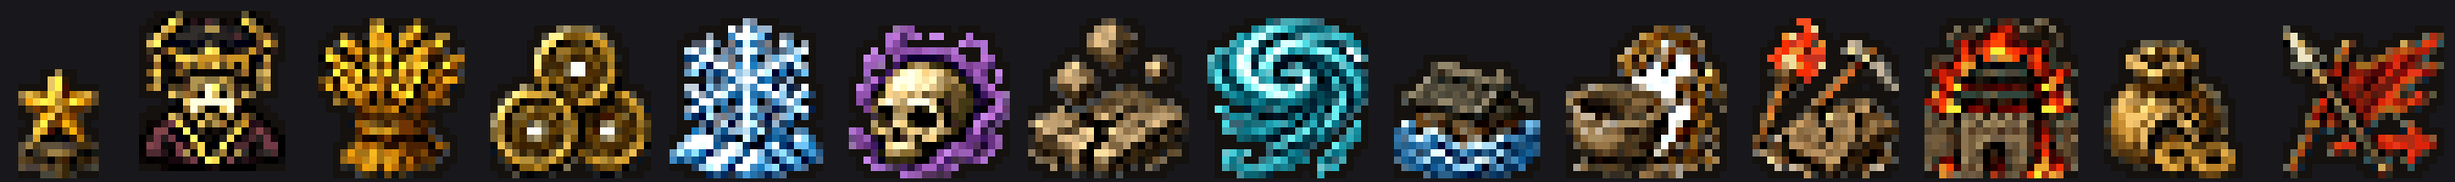
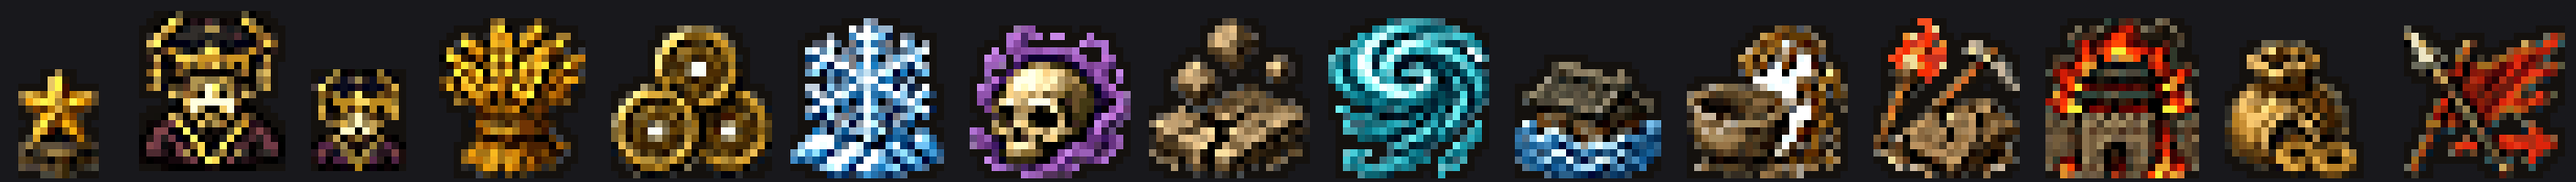
feat: add imperial NPC name badge

diff --git a/tools/assets/build_status_icons.py b/tools/assets/build_status_icons.py
@@ -2,7 +2,7 @@
 """도시 상태/수도별 아이콘 빌더 (ImageGen 원화 · 결정적 후처리).
 
 `web/{gateway,game}/public/status/state-<code>.png`(12장) + `star-capital.png`(1장) +
-`imperial-residence.png`(1장)과
+`imperial-residence.png`(1장) + `imperial-npc.png`(1장)과
 검수 시트 `assets/brand/status-icons/preview.png`를 생성한다. 정본 원화는
 `assets/status-icons/source/status-master-imagegen.png`이며, 각 셀의 배경 제거·분리·축소·
 팔레트 제한을 코드로 재현한다.
@@ -68,6 +68,7 @@ PREVIEW_GAP = 4
 
 SIZE = 24
 STAR_SIZE = 16
+IMPERIAL_NPC_SIZE = 16
 
 OUTLINE = (18, 16, 14, 255)
 
@@ -391,6 +392,23 @@ def build_imperial_residence(size: int = SIZE) -> Image.Image:
     return canvas
 
 
+def build_imperial_npc_badge(size: int = IMPERIAL_NPC_SIZE) -> Image.Image:
+    """인물명 앞에 붙이는 황제 특별 NPC 배지. 16px용 면류관 앞판을 별도 클린업한다."""
+    badge = build_imperial_residence(size)
+    unit = max(1, size // IMPERIAL_NPC_SIZE)
+    if size == IMPERIAL_NPC_SIZE * unit:
+        for logical_x in range(4, 12):
+            color = STAR_GOLD if logical_x in (7, 8) else STAR_GOLD_D
+            for y in range(5 * unit, 6 * unit):
+                for x in range(logical_x * unit, (logical_x + 1) * unit):
+                    badge.putpixel((x, y), color)
+        for logical_x in (5, 7, 9, 11):
+            for y in range(6 * unit, 7 * unit):
+                for x in range(logical_x * unit, (logical_x + 1) * unit):
+                    badge.putpixel((x, y), STAR_GOLD_D)
+    return badge
+
+
 def preview_sheet(icons: dict[str, Image.Image]) -> Image.Image:
     s, gap = PREVIEW_SCALE, PREVIEW_GAP
     w = sum(i.width * s for i in icons.values()) + gap * (len(icons) + 1)
@@ -398,7 +416,7 @@ def preview_sheet(icons: dict[str, Image.Image]) -> Image.Image:
     sheet = Image.new("RGBA", (w, h), (24, 24, 28, 255))
     x = gap
     # 게임 상태 코드의 실제 순서로 보여 줘 32/34/43이 3과 4 사이에 끼지 않게 한다.
-    for key in ["capital", "imperial", *(str(code) for code in STATE_BUILDERS)]:
+    for key in ["capital", "imperial", "imperialNpc", *(str(code) for code in STATE_BUILDERS)]:
         img = icons[key]
         img = img.resize((img.width * s, img.height * s), Image.NEAREST)
         sheet.alpha_composite(img, (x, h - gap - img.height))
@@ -420,6 +438,8 @@ def targets(icons: dict[str, Image.Image]) -> dict[Path, bytes]:
             name = "star-capital.png"
         elif key == "imperial":
             name = "imperial-residence.png"
+        elif key == "imperialNpc":
+            name = "imperial-npc.png"
         else:
             name = f"state-{key}.png"
         for app in APPS:
@@ -429,6 +449,8 @@ def targets(icons: dict[str, Image.Image]) -> dict[Path, bytes]:
                 doubled = build_capital_star(STAR_SIZE * 2)
             elif key == "imperial":
                 doubled = build_imperial_residence(SIZE * 2)
+            elif key == "imperialNpc":
+                doubled = build_imperial_npc_badge(IMPERIAL_NPC_SIZE * 2)
             else:
                 doubled = build_state(int(key), SIZE * 2)
             out[ROOT / "web" / app / "public" / "status" / "2x" / name] = png_bytes(doubled)
@@ -444,6 +466,7 @@ def main() -> int:
     icons: dict[str, Image.Image] = {str(code): build_state(code) for code in STATE_BUILDERS}
     icons["capital"] = build_capital_star()
     icons["imperial"] = build_imperial_residence()
+    icons["imperialNpc"] = build_imperial_npc_badge()
     files = targets(icons)
 
     if args.check:

diff --git a/tools/assets/test_build_status_icons.py b/tools/assets/test_build_status_icons.py
@@ -41,19 +41,40 @@ class StatusIconPipelineTest(unittest.TestCase):
         ]
         self.assertGreaterEqual(len(front_gold), 5)
 
+    def test_imperial_npc_badge_has_a_crisp_compact_crown_front(self) -> None:
+        badge = status_icons.build_imperial_npc_badge()
+
+        self.assertEqual((16, 16), badge.size)
+        self.assertLessEqual(set(badge.getchannel("A").tobytes()), {0, 255})
+        front_gold = [
+            badge.getpixel((x, 5))
+            for x in range(4, 12)
+            if (
+                badge.getpixel((x, 5))[3] == 255
+                and badge.getpixel((x, 5))[0] >= 150
+                and badge.getpixel((x, 5))[1] >= 100
+                and badge.getpixel((x, 5))[2] < 100
+            )
+        ]
+        self.assertGreaterEqual(len(front_gold), 4)
+
     def test_targets_export_all_states_capital_and_emperor_to_both_apps(self) -> None:
         icons = {str(code): status_icons.build_state(code) for code in status_icons.STATE_BUILDERS}
         icons["capital"] = status_icons.build_capital_star()
         icons["imperial"] = status_icons.build_imperial_residence()
+        icons["imperialNpc"] = status_icons.build_imperial_npc_badge()
         targets = {path.relative_to(status_icons.ROOT).as_posix() for path in status_icons.targets(icons)}
 
-        self.assertEqual(85, len(targets))
+        self.assertEqual(91, len(targets))
         for app in status_icons.APPS:
             self.assertIn(f"web/{app}/public/status/star-capital.png", targets)
             self.assertIn(f"web/{app}/public/status/2x/star-capital.png", targets)
             self.assertIn(f"web/{app}/public/status/imperial-residence.png", targets)
             self.assertIn(f"web/{app}/public/status/1x/imperial-residence.png", targets)
             self.assertIn(f"web/{app}/public/status/2x/imperial-residence.png", targets)
+            self.assertIn(f"web/{app}/public/status/imperial-npc.png", targets)
+            self.assertIn(f"web/{app}/public/status/1x/imperial-npc.png", targets)
+            self.assertIn(f"web/{app}/public/status/2x/imperial-npc.png", targets)
             for code in status_icons.STATE_BUILDERS:
                 self.assertIn(f"web/{app}/public/status/state-{code}.png", targets)
                 self.assertIn(f"web/{app}/public/status/1x/state-{code}.png", targets)

diff --git a/assets/brand/status-icons/README.md b/assets/brand/status-icons/README.md
@@ -2,6 +2,8 @@
 
 도시 아이콘 우상단에 겹쳐 표시하는 24×24 픽셀 상태 배지, 16×16 수도 별,
 24×24 황제 거처 표식의 정본이다.
+황제 특별 NPC 이름 앞에는 같은 원화에서 별도 축소·클린업한 16×16
+`imperial-npc.png`를 사용한다.
 모든 자산은 ImageGen으로 만든 정본 시트를 `tools/assets/build_status_icons.py`가
 셀별로 분리하고 배경 제거·팔레트 제한·1x/2x 축소해 생성한다.
 
